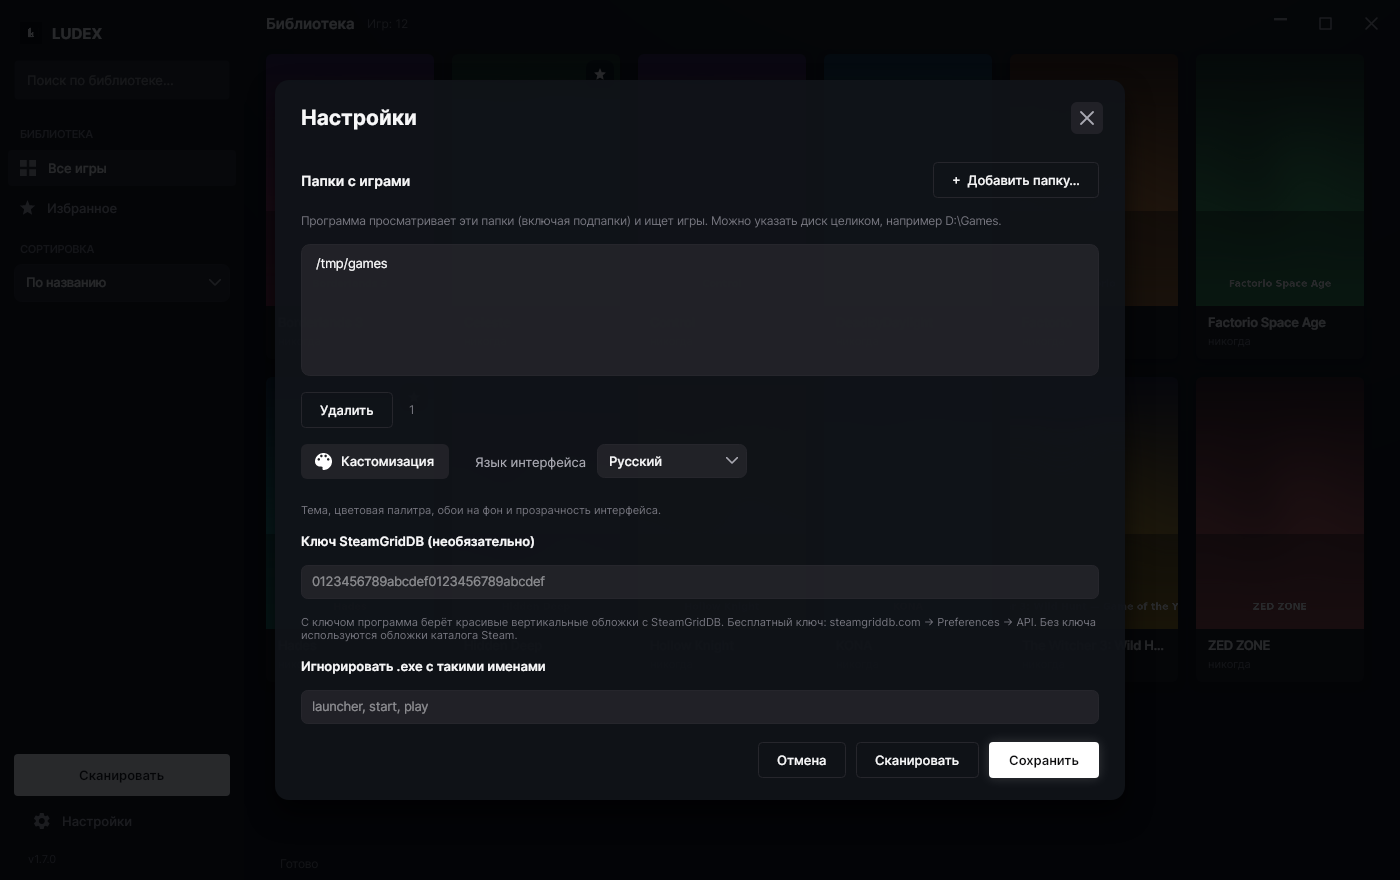
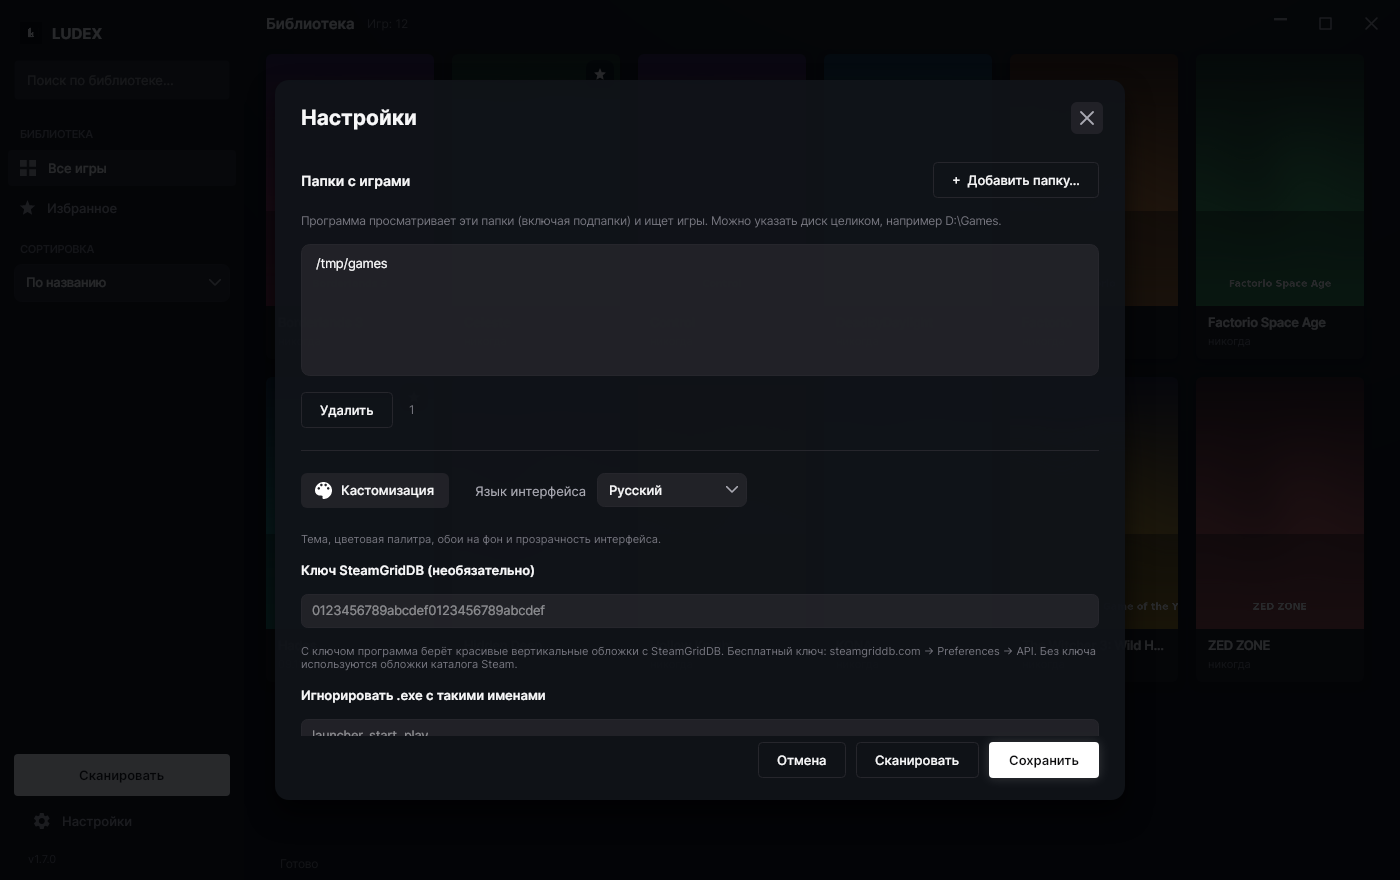
1.7.0: разделители секций в настройках вернул
- в диалоге настроек снова видны серые разделители между секциями
- остальные линии (обводки карточек, панелей, меню, сайдбар, статус-бар) остаются убранными
- скриншот настроек обновлён в README и на сайте

Changed region(s): [[0.215, 0.5216, 0.645, 0.8284], [0.7371, 0.7364, 0.7679, 0.767], [0.6757, 0.7364, 0.7064, 0.767]]

diff --git a/src/Ludex/UI/SettingsPanel.cs b/src/Ludex/UI/SettingsPanel.cs
@@ -143,6 +143,7 @@ public sealed class SettingsPanel : Border
         listButtons.Children.Add(_folderCount);
         body.Children.Add(listButtons);
 
+        body.Children.Add(Ui.Divider());
 
         // ---- вход в «Кастомизацию» + язык (слева)
         var lookRow = new WrapPanel { Orientation = Orientation.Horizontal };
@@ -208,6 +209,7 @@ public sealed class SettingsPanel : Border
         body.Children.Add(_ignoreBox);
         body.Children.Add(Ui.T(Loc.T("settings.ignoreHint"), 11, Skin.TextDim, wrap: TextWrapping.Wrap));
 
+        body.Children.Add(Ui.Divider());
 
         // ---- поведение
         _autoScan = new Toggle(Loc.T("settings.autoscan"), _scanOnStartup,

diff --git a/CHANGELOG.md b/CHANGELOG.md
@@ -28,8 +28,8 @@
   длинные названия аккуратно обрезаются многоточием.
 - Плашка примыкает к обложке вплотную — карточка читается одним блоком, скруглены только
   внешние углы.
-- Убраны серые линии интерфейса: светлая обводка карточек, разделители в настройках
-  и кастомизации, линия под сайдбаром и над статус-баром, обводки панелей и меню.
+- Убраны серые линии интерфейса: светлая обводка карточек, линия под сайдбаром
+  и над статус-баром, обводки панелей и меню. Разделители секций в настройках оставлены.
 
 ## [1.6.0] — 2026-11-09
 
